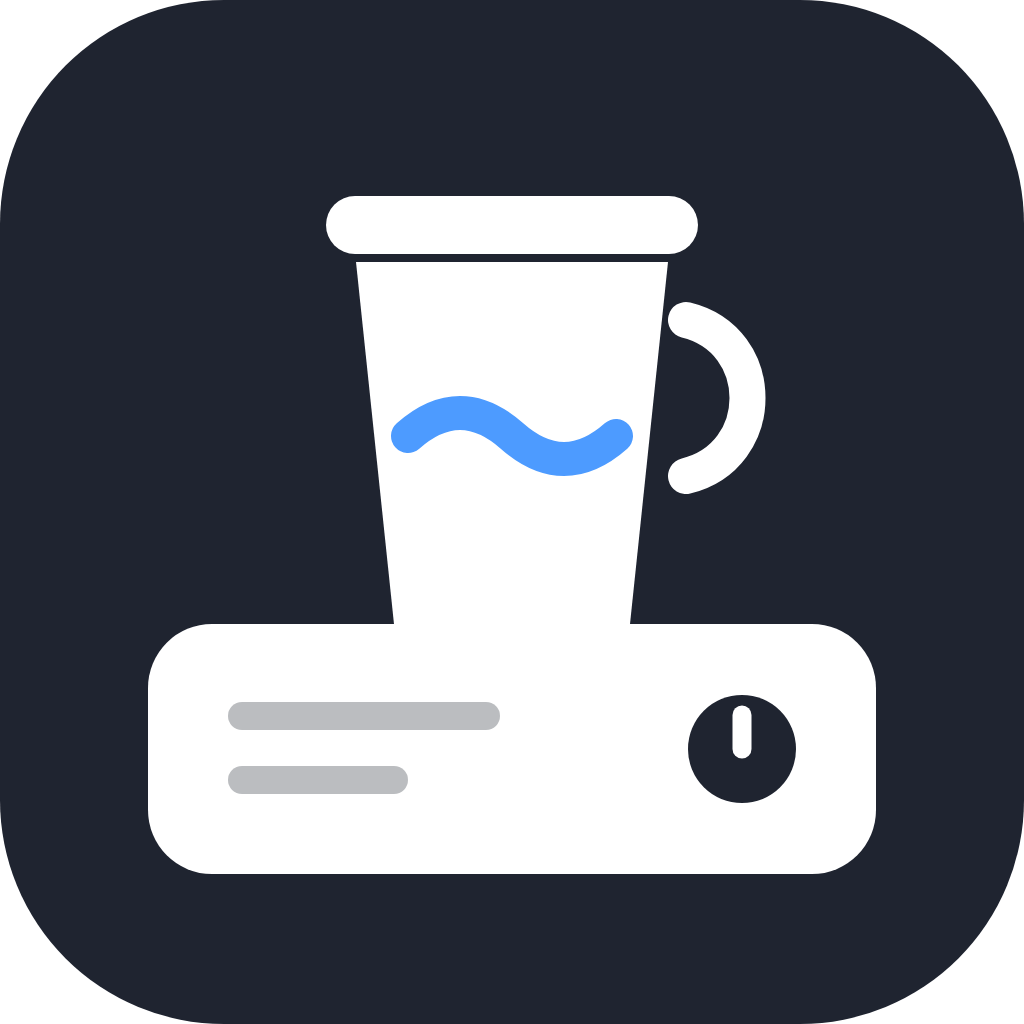
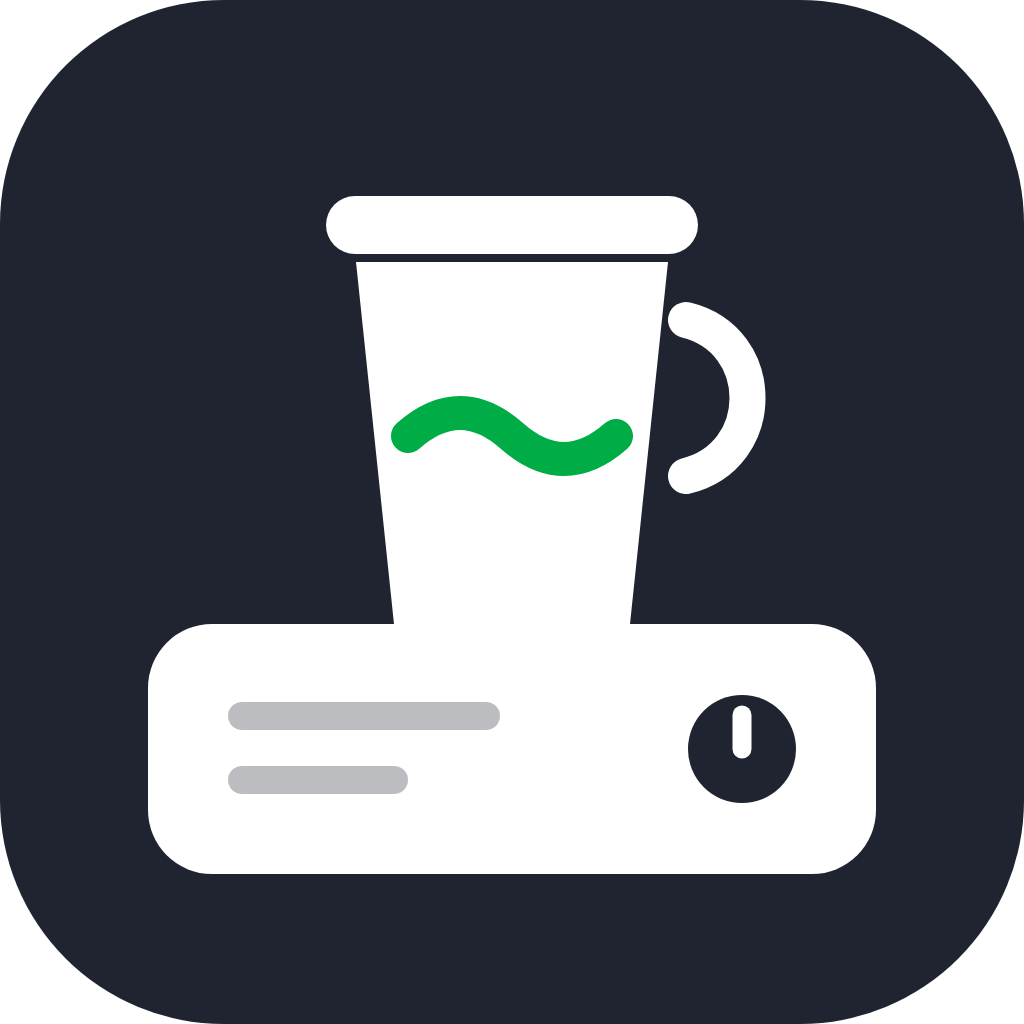
Termomiks Defteri: Thermomix yesili
Uygulama, CRM ve Diyet Kocu ile ortak brand mavisini kullaniyordu. Artik
kendi rengi var: Cookidoo ekran goruntusunden piksel ornekleyerek alinan
#00ac46. Dugmeler ve secili sekme icin #00873a kullaniliyor (beyaz yazi
kucuk puntoda da okunakli kalsin diye biraz koyu ton).

- tailwind.config.js: EK bir "tm" renk ailesi. Mevcut "brand" ailesine
  dokunulmadi; CRM ve Diyet Kocu eskisi gibi mavi.
- src/index.css: yalnizca tm-* siniflarini etkileyen ek kurallar (.btn-tm ve
  koyu tema karsiliklari). Var olan hicbir kural degistirilmedi.
- src/tm/**: btn-primary -> btn-tm, brand-* -> tm-*.
- Simgedeki karisim cizgisi ve tarayici sekmesi rengi de yesile alindi
  (zemin grafit kaldi); tema rengi #00873a.

Acik ve koyu temada ekran goruntusuyle bakildi: liste, kategori basliklari,
pisirme modu ve alt menu dogru renkte; kontrast yeterli.

Claude-Session: https://claude.ai/code/session_01We4afmSbjYJ799A9f7Rjqs

Changed region(s): [[0.375, 0.375, 0.625, 0.4688]]

diff --git a/src/tm/pages/RecipeDetail.tsx b/src/tm/pages/RecipeDetail.tsx
@@ -139,7 +139,7 @@ export default function RecipeDetail() {
         )}
         {fotoHata && <div className="card p-3 text-sm text-rose-600">{fotoHata}</div>}
 
-        <Link to={`/pisir/${rid}`} className="btn-primary w-full py-3">
+        <Link to={`/pisir/${rid}`} className="btn-tm w-full py-3">
           ▶ Pişirmeye başla
         </Link>
 
@@ -167,7 +167,7 @@ export default function RecipeDetail() {
           {r.steps.map((s, k) => (
             <div key={k} className="card p-3">
               <div className="flex gap-3">
-                <div className="w-7 h-7 rounded-full bg-brand-600 text-white text-sm font-bold flex items-center justify-center flex-shrink-0">
+                <div className="w-7 h-7 rounded-full bg-tm-600 text-white text-sm font-bold flex items-center justify-center flex-shrink-0">
                   {k + 1}
                 </div>
                 <div className="min-w-0 flex-1">
@@ -175,7 +175,7 @@ export default function RecipeDetail() {
                   {s.ingredients && <div className="text-[12px] text-slate-500 mt-1">Kaba gir: {s.ingredients}</div>}
                   {stepSummary(s) && (
                     <div className="mt-1.5">
-                      <span className="chip bg-brand-50 dark:bg-[#252733] text-brand-700">{stepSummary(s)}</span>
+                      <span className="chip bg-tm-50 dark:bg-[#252733] text-tm-700">{stepSummary(s)}</span>
                     </div>
                   )}
                   {s.tip && <div className="text-[12px] text-amber-600 mt-1">💡 {s.tip}</div>}
@@ -202,7 +202,7 @@ export default function RecipeDetail() {
           <div className="card p-3">
             <button
               onClick={() => setOrijinalAcik((v) => !v)}
-              className="text-sm font-semibold text-brand-600 w-full text-left"
+              className="text-sm font-semibold text-tm-600 w-full text-left"
             >
               {orijinalAcik ? '▾' : '▸'} Orijinal tarif (uyarlanmadan önce)
             </button>

diff --git a/src/tm/pages/Cook.tsx b/src/tm/pages/Cook.tsx
@@ -139,7 +139,7 @@ export default function Cook() {
         {/* Ilerleme cubugu */}
         <div className="h-1.5 rounded-full bg-slate-200 dark:bg-[#252733] overflow-hidden">
           <div
-            className="h-full bg-brand-600 transition-all"
+            className="h-full bg-tm-600 transition-all"
             style={{ width: `${((i + (bitti ? 1 : 0)) / steps.length) * 100}%` }}
           />
         </div>
@@ -166,7 +166,7 @@ export default function Cook() {
           />
         </div>
         {step.mode && (
-          <div className="card p-3 text-center text-sm font-semibold text-brand-600">Mod: {modeLabel(step.mode)}</div>
+          <div className="card p-3 text-center text-sm font-semibold text-tm-600">Mod: {modeLabel(step.mode)}</div>
         )}
 
         {/* Sayac */}
@@ -181,7 +181,7 @@ export default function Cook() {
             </div>
             <div className="mt-4 flex gap-2 justify-center">
               {!bitti && (
-                <button onClick={() => setCalisiyor((v) => !v)} className="btn-primary px-6 py-2.5">
+                <button onClick={() => setCalisiyor((v) => !v)} className="btn-tm px-6 py-2.5">
                   {calisiyor ? 'Duraklat' : kalan === step.seconds ? 'Başlat' : 'Devam et'}
                 </button>
               )}
@@ -206,11 +206,11 @@ export default function Cook() {
             ← Önceki
           </button>
           {sonAdim ? (
-            <button onClick={bitir} className="btn-primary flex-1 py-3">
+            <button onClick={bitir} className="btn-tm flex-1 py-3">
               Bitir ✔
             </button>
           ) : (
-            <button onClick={() => setI((v) => Math.min(steps.length - 1, v + 1))} className="btn-primary flex-1 py-3">
+            <button onClick={() => setI((v) => Math.min(steps.length - 1, v + 1))} className="btn-tm flex-1 py-3">
               Sonraki →
             </button>
           )}

diff --git a/src/tm/pages/Recipes.tsx b/src/tm/pages/Recipes.tsx
@@ -34,7 +34,7 @@ export default function Recipes({ onlyFavorites }: Props) {
         subtitle={onlyFavorites ? 'Yıldızladığın tarifler' : `${list.length} tarif · Thermomix TM7`}
         right={
           !onlyFavorites ? (
-            <Link to="/ekle" className="btn-primary px-3.5 py-2 text-sm">
+            <Link to="/ekle" className="btn-tm px-3.5 py-2 text-sm">
               + Tarif
             </Link>
           ) : undefined
@@ -74,7 +74,7 @@ export default function Recipes({ onlyFavorites }: Props) {
             </p>
             {!onlyFavorites && (
               <div className="flex gap-2 justify-center">
-                <Link to="/ekle" className="btn-primary px-4 py-2 text-sm">
+                <Link to="/ekle" className="btn-tm px-4 py-2 text-sm">
                   Tarif ekle
                 </Link>
                 <Link to="/yeni" className="btn-ghost px-4 py-2 text-sm">
@@ -161,7 +161,7 @@ function Chip({ label, active, onClick }: { label: string; active: boolean; onCl
       onClick={onClick}
       className={`chip flex-shrink-0 border ${
         active
-          ? 'bg-brand-600 text-white border-brand-600'
+          ? 'bg-tm-600 text-white border-tm-600'
           : 'bg-white dark:bg-[#252733] text-slate-600 border-slate-200 dark:border-[#2f3240]'
       }`}
     >
@@ -201,7 +201,7 @@ function RecipeRow({ r }: { r: TmRecipe }) {
       </button>
       <Link
         to={`/pisir/${r.id}`}
-        className="flex-shrink-0 btn-primary px-3 py-2 text-sm"
+        className="flex-shrink-0 btn-tm px-3 py-2 text-sm"
         aria-label="Pişirme modunu başlat"
       >
         Pişir

diff --git a/src/tm/pages/AddRecipe.tsx b/src/tm/pages/AddRecipe.tsx
@@ -92,7 +92,7 @@ export default function AddRecipe() {
           <button onClick={kontrolEt} className="btn-ghost flex-1 py-3 text-sm">
             Önce kontrol et
           </button>
-          <button onClick={ekle} className="btn-primary flex-1 py-3">
+          <button onClick={ekle} className="btn-tm flex-1 py-3">
             Deftere ekle
           </button>
         </div>
@@ -145,7 +145,7 @@ function Onizleme({ liste }: { liste: TmConversion[] }) {
                   {s.ingredients && <div className="text-[12px] text-slate-500 pl-4">Kaba gir: {s.ingredients}</div>}
                   {stepSummary(s) && (
                     <div className="pl-4">
-                      <span className="chip bg-brand-50 dark:bg-[#252733] text-brand-700">{stepSummary(s)}</span>
+                      <span className="chip bg-tm-50 dark:bg-[#252733] text-tm-700">{stepSummary(s)}</span>
                     </div>
                   )}
                   {s.tip && <div className="text-[12px] text-amber-600 pl-4">💡 {s.tip}</div>}

diff --git a/src/tm/pages/EditRecipe.tsx b/src/tm/pages/EditRecipe.tsx
@@ -161,7 +161,7 @@ export default function EditRecipe() {
           <input className="field-input" value={source} onChange={(e) => setSource(e.target.value)} placeholder="örn. anneannemin tarifi" />
         </div>
 
-        <button onClick={kaydet} className="btn-primary w-full py-3">
+        <button onClick={kaydet} className="btn-tm w-full py-3">
           Kaydet
         </button>
       </div>
@@ -188,7 +188,7 @@ function StepEditor({
   return (
     <div className="card p-3 space-y-2">
       <div className="flex items-center gap-2">
-        <span className="w-6 h-6 rounded-full bg-brand-600 text-white text-xs font-bold flex items-center justify-center">
+        <span className="w-6 h-6 rounded-full bg-tm-600 text-white text-xs font-bold flex items-center justify-center">
           {i + 1}
         </span>
         <div className="flex-1" />

diff --git a/tailwind.config.js b/tailwind.config.js
@@ -20,6 +20,22 @@ export default {
           800: '#2f68b4',
           900: '#27528b'
         },
+        // TERMOMIKS DEFTERI'nin kendi rengi: Cookidoo ekran goruntusunden
+        // PIKSEL ORNEKLEMEYLE alinan Thermomix yesili (#00ac46 = 500).
+        // Yalnizca src/tm/** kullanir; CRM ve Diyet Kocu'nun brand mavisi
+        // OLDUGU GIBI KALIR.
+        tm: {
+          50: '#e9f8ef',
+          100: '#c9f0d9',
+          200: '#96e2b8',
+          300: '#5bd093',
+          400: '#21bd6e',
+          500: '#00ac46', // marka yesili (ornekleme)
+          600: '#00873a', // eylem: beyaz yazi okunakli olsun diye biraz koyu
+          700: '#00722f',
+          800: '#065c28',
+          900: '#0a4a22'
+        },
         // MFP paletinden ORNEKLENEN renkler
         mfp: {
           bg: '#151724', // sayfa zemini

diff --git a/src/tm/TmApp.tsx b/src/tm/TmApp.tsx
@@ -86,13 +86,13 @@ export default function TmApp() {
                 <NavIcon
                   name={t.icon}
                   className={`h-[22px] w-[22px] ${
-                    isActive ? 'text-brand-600 dark:text-[#e0e1e6]' : 'text-slate-400 dark:text-[#9b9ea7]'
+                    isActive ? 'text-tm-600 dark:text-[#e0e1e6]' : 'text-slate-400 dark:text-[#9b9ea7]'
                   }`}
                 />
                 <span
                   className={`text-[11px] leading-none ${
                     isActive
-                      ? 'text-brand-600 dark:text-[#e0e1e6] font-semibold'
+                      ? 'text-tm-600 dark:text-[#e0e1e6] font-semibold'
                       : 'text-slate-500 dark:text-[#9b9ea7] font-medium'
                   }`}
                 >

diff --git a/src/index.css b/src/index.css
@@ -439,3 +439,25 @@ textarea {
 .dark .text-cyan-700 {
   color: #7dd3fc;
 }
+
+/* --- Termomiks Defteri (yesil) --------------------------------------------
+   Bu kurallar SADECE tm-* siniflarini kullanan Termomiks sayfalarini etkiler;
+   CRM ve Diyet Kocu brand-* (mavi) kullanmaya devam eder. */
+@layer components {
+  .btn-tm {
+    @apply btn bg-tm-600 text-white hover:bg-tm-700;
+  }
+}
+.dark .bg-tm-50 {
+  background-color: #122a1e;
+}
+.dark .text-tm-800,
+.dark .text-tm-700,
+.dark .text-tm-600,
+.dark .text-tm-500 {
+  color: #34d17a;
+}
+.dark .border-tm-100,
+.dark .border-tm-200 {
+  border-color: #1c3d2a;
+}

diff --git a/termomiks.html b/termomiks.html
@@ -18,7 +18,7 @@
     </script>
     <link rel="icon" type="image/svg+xml" href="./termomiks-favicon.svg" />
     <meta name="viewport" content="width=device-width, initial-scale=1.0, maximum-scale=1.0, user-scalable=no, viewport-fit=cover" />
-    <meta name="theme-color" content="#1f2430" />
+    <meta name="theme-color" content="#00873a" />
     <meta name="apple-mobile-web-app-capable" content="yes" />
     <meta name="apple-mobile-web-app-status-bar-style" content="black-translucent" />
     <title>Termomiks Defteri</title>

diff --git a/src/tm/pages/TmSettings.tsx b/src/tm/pages/TmSettings.tsx
@@ -91,7 +91,7 @@ export default function TmSettings() {
                 }}
                 className={`py-2.5 rounded-xl text-sm font-semibold border ${
                   tema === p
-                    ? 'bg-brand-600 text-white border-brand-600'
+                    ? 'bg-tm-600 text-white border-tm-600'
                     : 'bg-white dark:bg-[#252733] text-slate-600 border-slate-200 dark:border-[#2f3240]'
                 }`}
               >
